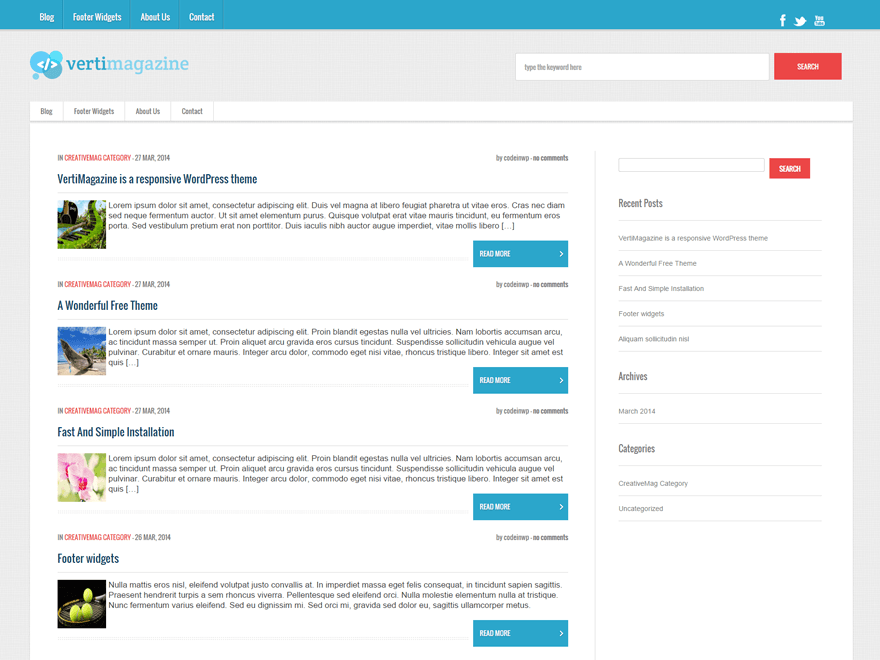
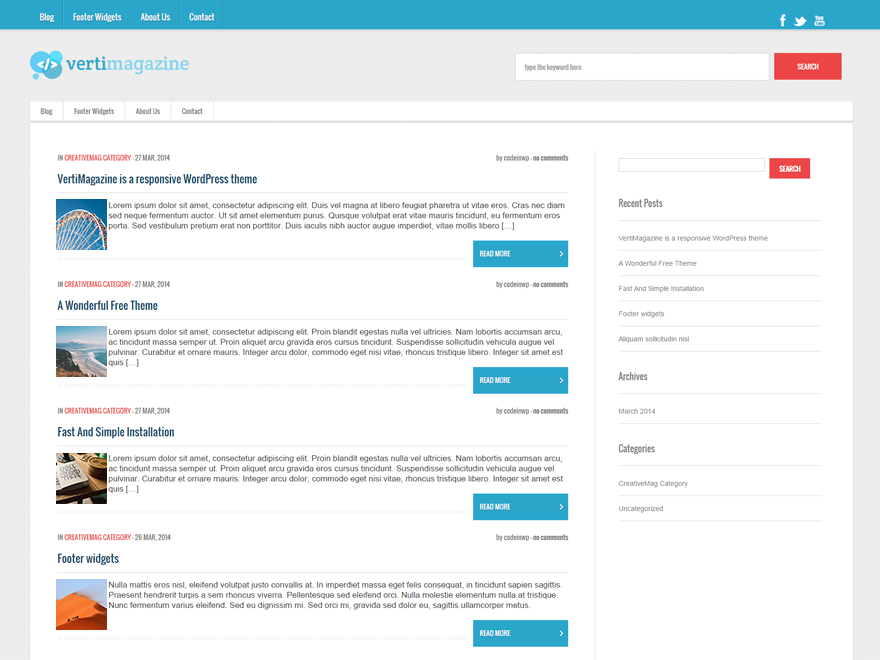
Replaced screenshot
+ added links to image source files

diff --git a/readme.md b/readme.md
@@ -16,3 +16,9 @@ The exceptions to this license are as follows:
 * Bootstrap by Twitter and the Glyphicon set are licensed under the GPL-compatible [http://www.apache.org/licenses/LICENSE-2.0 Apache License v2.0]
 * The script tinynav is licensed under MIT licenses
 * The script html5.js is Dual licensed under the MIT or GPL Version 2 licenses
+
+
+* First screenshot image source: https://download.unsplash.com/reserve/N13RIliTTASBbuYyszgq_P9020914-54.jpg
+* Second screenshot image source: https://download.unsplash.com/reserve/jEs6K0y1SbK3DAvgrBe5_IMG_3410.jpg
+* Third screenshot image source: https://download.unsplash.com/photo-1416339276121-ba1dfa199912
+* Fourth screenshot image source: https://download.unsplash.com/photo-1413977886085-3bbbf9a7cf6e
